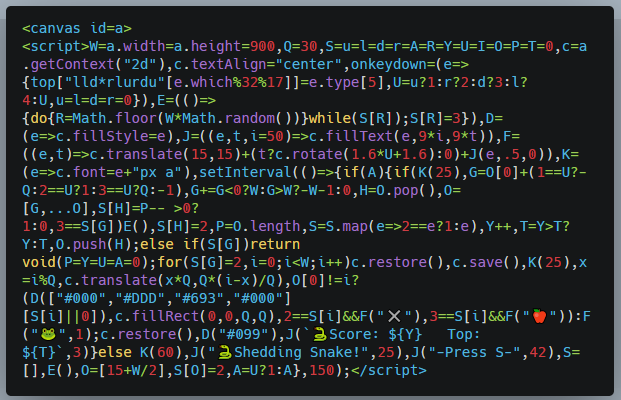
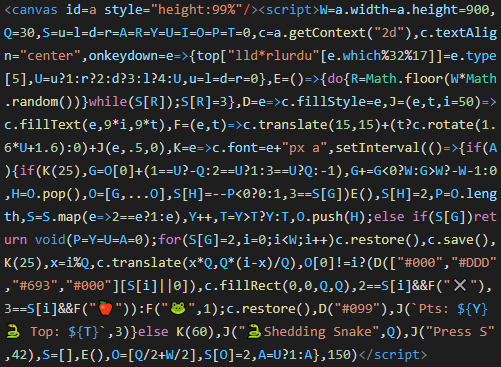
Adapts to screen sizes (+18 bytes to fit!)

diff --git a/release/game.html b/release/game.html
@@ -1,1 +1,1 @@
-<canvas id=a><script>W=a.width=a.height=900,Q=30,S=u=l=d=r=A=R=Y=U=I=O=P=T=0,c=a.getContext("2d"),c.textAlign="center",onkeydown=(e=>{top["lld*rlurdu"[e.which%32%17]]=e.type[5],U=u?1:r?2:d?3:l?4:U,u=l=d=r=0}),E=(()=>{do{R=Math.floor(W*Math.random())}while(S[R]);S[R]=3}),D=(e=>c.fillStyle=e),J=((e,t,i=50)=>c.fillText(e,9*i,9*t)),F=((e,t)=>c.translate(15,15)+(t?c.rotate(1.6*U+1.6):0)+J(e,.5,0)),K=(e=>c.font=e+"px a"),setInterval(()=>{if(A){if(K(25),G=O[0]+(1==U?-Q:2==U?1:3==U?Q:-1),G+=G<0?W:G>W?-W-1:0,H=O.pop(),O=[G,...O],S[H]=P-- >0?1:0,3==S[G])E(),S[H]=2,P=O.length,S=S.map(e=>2==e?1:e),Y++,T=Y>T?Y:T,O.push(H);else if(S[G])return void(P=Y=U=A=0);for(S[G]=2,i=0;i<W;i++)c.restore(),c.save(),K(25),x=i%Q,c.translate(x*Q,Q*(i-x)/Q),O[0]!=i?(D(["#000","#DDD","#693","#000"][S[i]||0]),c.fillRect(0,0,Q,Q),2==S[i]&&F("✖"),3==S[i]&&F("🍎")):F("🐸",1);c.restore(),D("#099"),J(`🐍Score: ${Y}   Top: ${T}`,3)}else K(60),J("🐍Shedding Snake!",25),J("-Press S-",42),S=[],E(),O=[15+W/2],S[O]=2,A=U?1:A},150);</script>
+<canvas id=a style="height:99%"/><script>W=a.width=a.height=900,Q=30,S=u=l=d=r=A=R=Y=U=I=O=P=T=0,c=a.getContext("2d"),c.textAlign="center",onkeydown=e=>{top["lld*rlurdu"[e.which%32%17]]=e.type[5],U=u?1:r?2:d?3:l?4:U,u=l=d=r=0},E=()=>{do{R=Math.floor(W*Math.random())}while(S[R]);S[R]=3},D=e=>c.fillStyle=e,J=(e,t,i=50)=>c.fillText(e,9*i,9*t),F=(e,t)=>c.translate(15,15)+(t?c.rotate(1.6*U+1.6):0)+J(e,.5,0),K=e=>c.font=e+"px a",setInterval(()=>{if(A){if(K(25),G=O[0]+(1==U?-Q:2==U?1:3==U?Q:-1),G+=G<0?W:G>W?-W-1:0,H=O.pop(),O=[G,...O],S[H]=--P<0?0:1,3==S[G])E(),S[H]=2,P=O.length,S=S.map(e=>2==e?1:e),Y++,T=Y>T?Y:T,O.push(H);else if(S[G])return void(P=Y=U=A=0);for(S[G]=2,i=0;i<W;i++)c.restore(),c.save(),K(25),x=i%Q,c.translate(x*Q,Q*(i-x)/Q),O[0]!=i?(D(["#000","#DDD","#693","#000"][S[i]||0]),c.fillRect(0,0,Q,Q),2==S[i]&&F("✖"),3==S[i]&&F("🍎")):F("🐸",1);c.restore(),D("#099"),J(`Pts: ${Y} 🐍 Top: ${T}`,3)}else K(60),J("🐍Shedding Snake",Q),J("Press S",42),S=[],E(),O=[Q/2+W/2],S[O]=2,A=U?1:A},150)</script>

diff --git a/src/script.js b/src/script.js
@@ -55,11 +55,11 @@ const drawText = (t, y, x = 50) => c.fillText(t, x * 9, y * 9);
 const drawEmoji = (a, b) =>
   c.translate(15, 15) +
   (b ? c.rotate(direction * 1.6 + 1.6) : 0) +
-  drawText(a, 0.5, 0);
+  drawText(a, .5, 0);
 
 // To set font we need a font size and a font. "a" makes the statement valid but
 // fall back to default font since "a" is missing.
-const setFont = (a) => (c.font = `${a}px a`);
+const setFont = (a) => (c.font = a+"px a");
 
 setInterval(() => {
   // state is either 1 (truthy) or 0 (falsy), to save space this is used instead of switch/case or if/else if
@@ -83,7 +83,7 @@ setInterval(() => {
     tail = player.pop();
     player = [head, ...player];
     // if it's shedding, reduce and leave part of the skin, otherwise add blank space
-    screen[tail] = skin-- > 0 ? 1 : 0;
+    screen[tail] = --skin < 0 ? 0 : 1;
 
     if (screen[head] === APPLE) {
       // If there is an apple on the head square, spawn new apple and reattach the old tail == the snake has grown
@@ -129,12 +129,12 @@ setInterval(() => {
     // Don't know rotation/translation of context or current color. Restore it.
     c.restore();
     drawColor("#099");
-    drawText(`🐍Score: ${score}   Top: ${hiscore}`, 3);
+    drawText(`Pts: ${score} 🐍 Top: ${hiscore}`, 3);
   } else {
     // TITLE SCREEN
     setFont(60);
-    drawText("🐍Shedding Snake", 25); // Wasted some bytes just because I could :-P
-    drawText("-Press S-", 42);
+    drawText("🐍Shedding Snake", size);
+    drawText("Press S", 42);
     // Resent screen, add apple, place player each loop. If a key is pressed (picked up as direction)
     // set the state to 1 (the game state is truthy). Yes any directional key would work, but "S" is
     // enough as an instruction :-).

diff --git a/src/game.html b/src/game.html
@@ -1,2 +1,7 @@
-<canvas id="a" />
+<meta charset="UTF-8" /><canvas id="a" style="height:99%"/>
 <script src="script.js"></script>
+
+<!--
+This is used in final build (50 bytes), leaving 974 bytes for code
+<canvas id=a style="height:99%"/><script>[CODE]</script>
+-->

diff --git a/README.md b/README.md
@@ -1,6 +1,6 @@
 # Shedding Snake js1024
 
-Shedding Snake is a contribution to [js1024](https://js1024.fun/), an annual javascript golfing competition with a max size of 1kb (1024 bytes), no shim category. The minfied build is exactly 1024b.
+Shedding Snake is a contribution to [js1024](https://js1024.fun/), an annual javascript golfing competition with a max size of 1kb (1024 bytes), no shim category. The minfied build is exactly 1024b of which 50 bytes is html and 974 bytes js.
 
 
 
@@ -9,17 +9,16 @@ Shedding Snake is a contribution to [js1024](https://js1024.fun/), an annual jav
 ![code base](./code.png)
 
 
-
 ## About
 
-Eat apples to grow and shed your skin. Avoid colliding with yourself or skin waste or you'll die. Try to beat the hiscore! Can you reach 25?
+Eat apples to grow and shed your skin. Avoid colliding with yourself or skin waste or you'll die. Try to beat the hiscore! Can you reach 25? (Not me 😜)
 Controls: WASD or Arrow keys.
 
-![code base](./gameplay300.gif)
+![game play](./gameplay300.gif)
 
 ## Features that ate bytes
 
-1024 is actually more than enough for a snake game. The extra bytes went into: The snake shed it skin each time it grows. Rotate snake face to current direction. Title screen. Skin pattern. Emojis :-). Score and hiscore.
+1024 is actually more than enough for a snake game. The extra bytes went into: The snake shed it skin each time it grows. Rotate snake face to current direction. Title screen. Skin pattern and  emojis :-). Score and hiscore.
 
 ## How to run
 
@@ -27,7 +26,7 @@ Open the html-file in a modern browser. You can probably just double click it.
 
 ## How to build
 
-The script is minified in three steps (too lazy to make a build script):
+The script has been minified in three steps. There is no universal solution. For a long time uglify had better results, but I got the smallest builds by running Terser first then Uglify (described below). In the final release I only used Terser though since Uglify would actually increase the size if run on the terser minification.
 
 1. Custom node script
    Run `node shorten-stuff.js` in the src folder.
@@ -36,4 +35,4 @@ The script is minified in three steps (too lazy to make a build script):
 3. [Uglify online](https://skalman.github.io/UglifyJS-online/)
    Paste the result from terser into uglifyjs.
 
-Create a html `<canvas id=a/><script src="script.js">[SCRIPT HERE]</script>` to get an 1kb html-file. Add `<meta charset="UTF-8" />` at top or the emojis will look strange (js1024.fun site already have this meta tag).
+Create a html `<canvas id=a style="height:99%"/><script>[CODE]</script>` to get an 1kb html-file. Add `<meta charset="UTF-8" />` at top or the emojis will look strange (js1024.fun site already have this meta tag).
